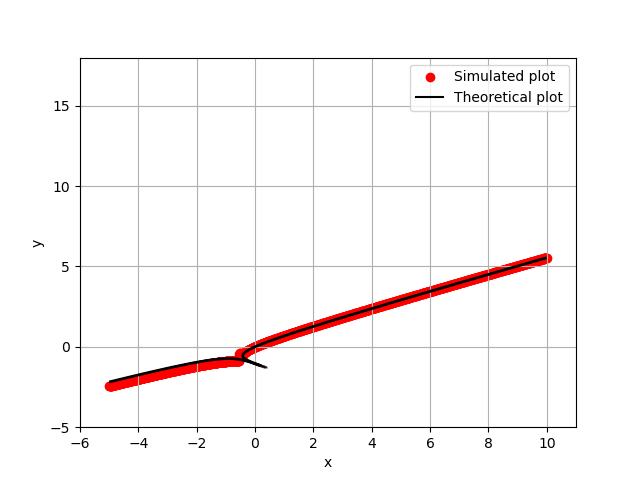
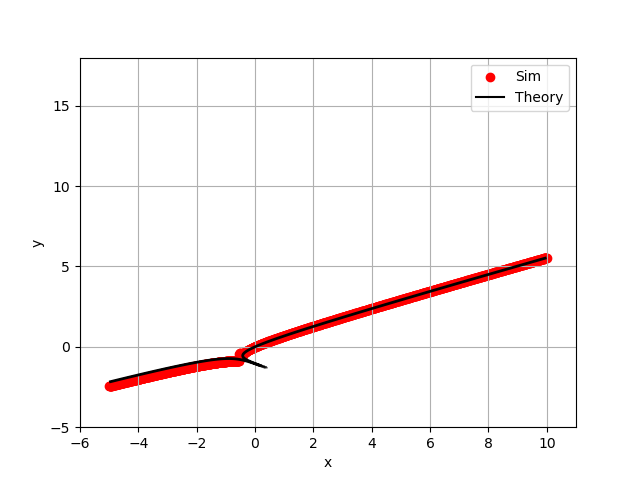
Changed legend

Changed region(s): [[0.6562, 0.125, 0.875, 0.25]]

diff --git a/assignment-1/codes/pycode.py b/assignment-1/codes/pycode.py
@@ -30,7 +30,7 @@ for point in points[:int(3 * (n/2))]:
 coordinates = np.block(coordinates)
 
 #plotting the simulated points
-scatter = plt.scatter(coordinates[0,:], coordinates[1,:], label="Simulated plot", color="red")
+scatter = plt.scatter(coordinates[0,:], coordinates[1,:], label="Sim", color="red")
 
 #freeing the used memory
 dll.freeMemory(points, n)
@@ -43,7 +43,7 @@ function = 3*x - 6*y + (9/7)*(np.log(np.abs((28*x + 42*y + 44)/44)))
 contour = plt.contour(x, y, function, [0], colors = 'black', linewidths = 2)
 
 #creating a proxy line to be able to label the contour graph
-proxy_line = plt.Line2D([0], [0], color='black', linestyle='-', label='Theoretical plot')
+proxy_line = plt.Line2D([0], [0], color='black', linestyle='-', label='Theory')
 
 plt.xlabel("x")
 plt.ylabel("y")
